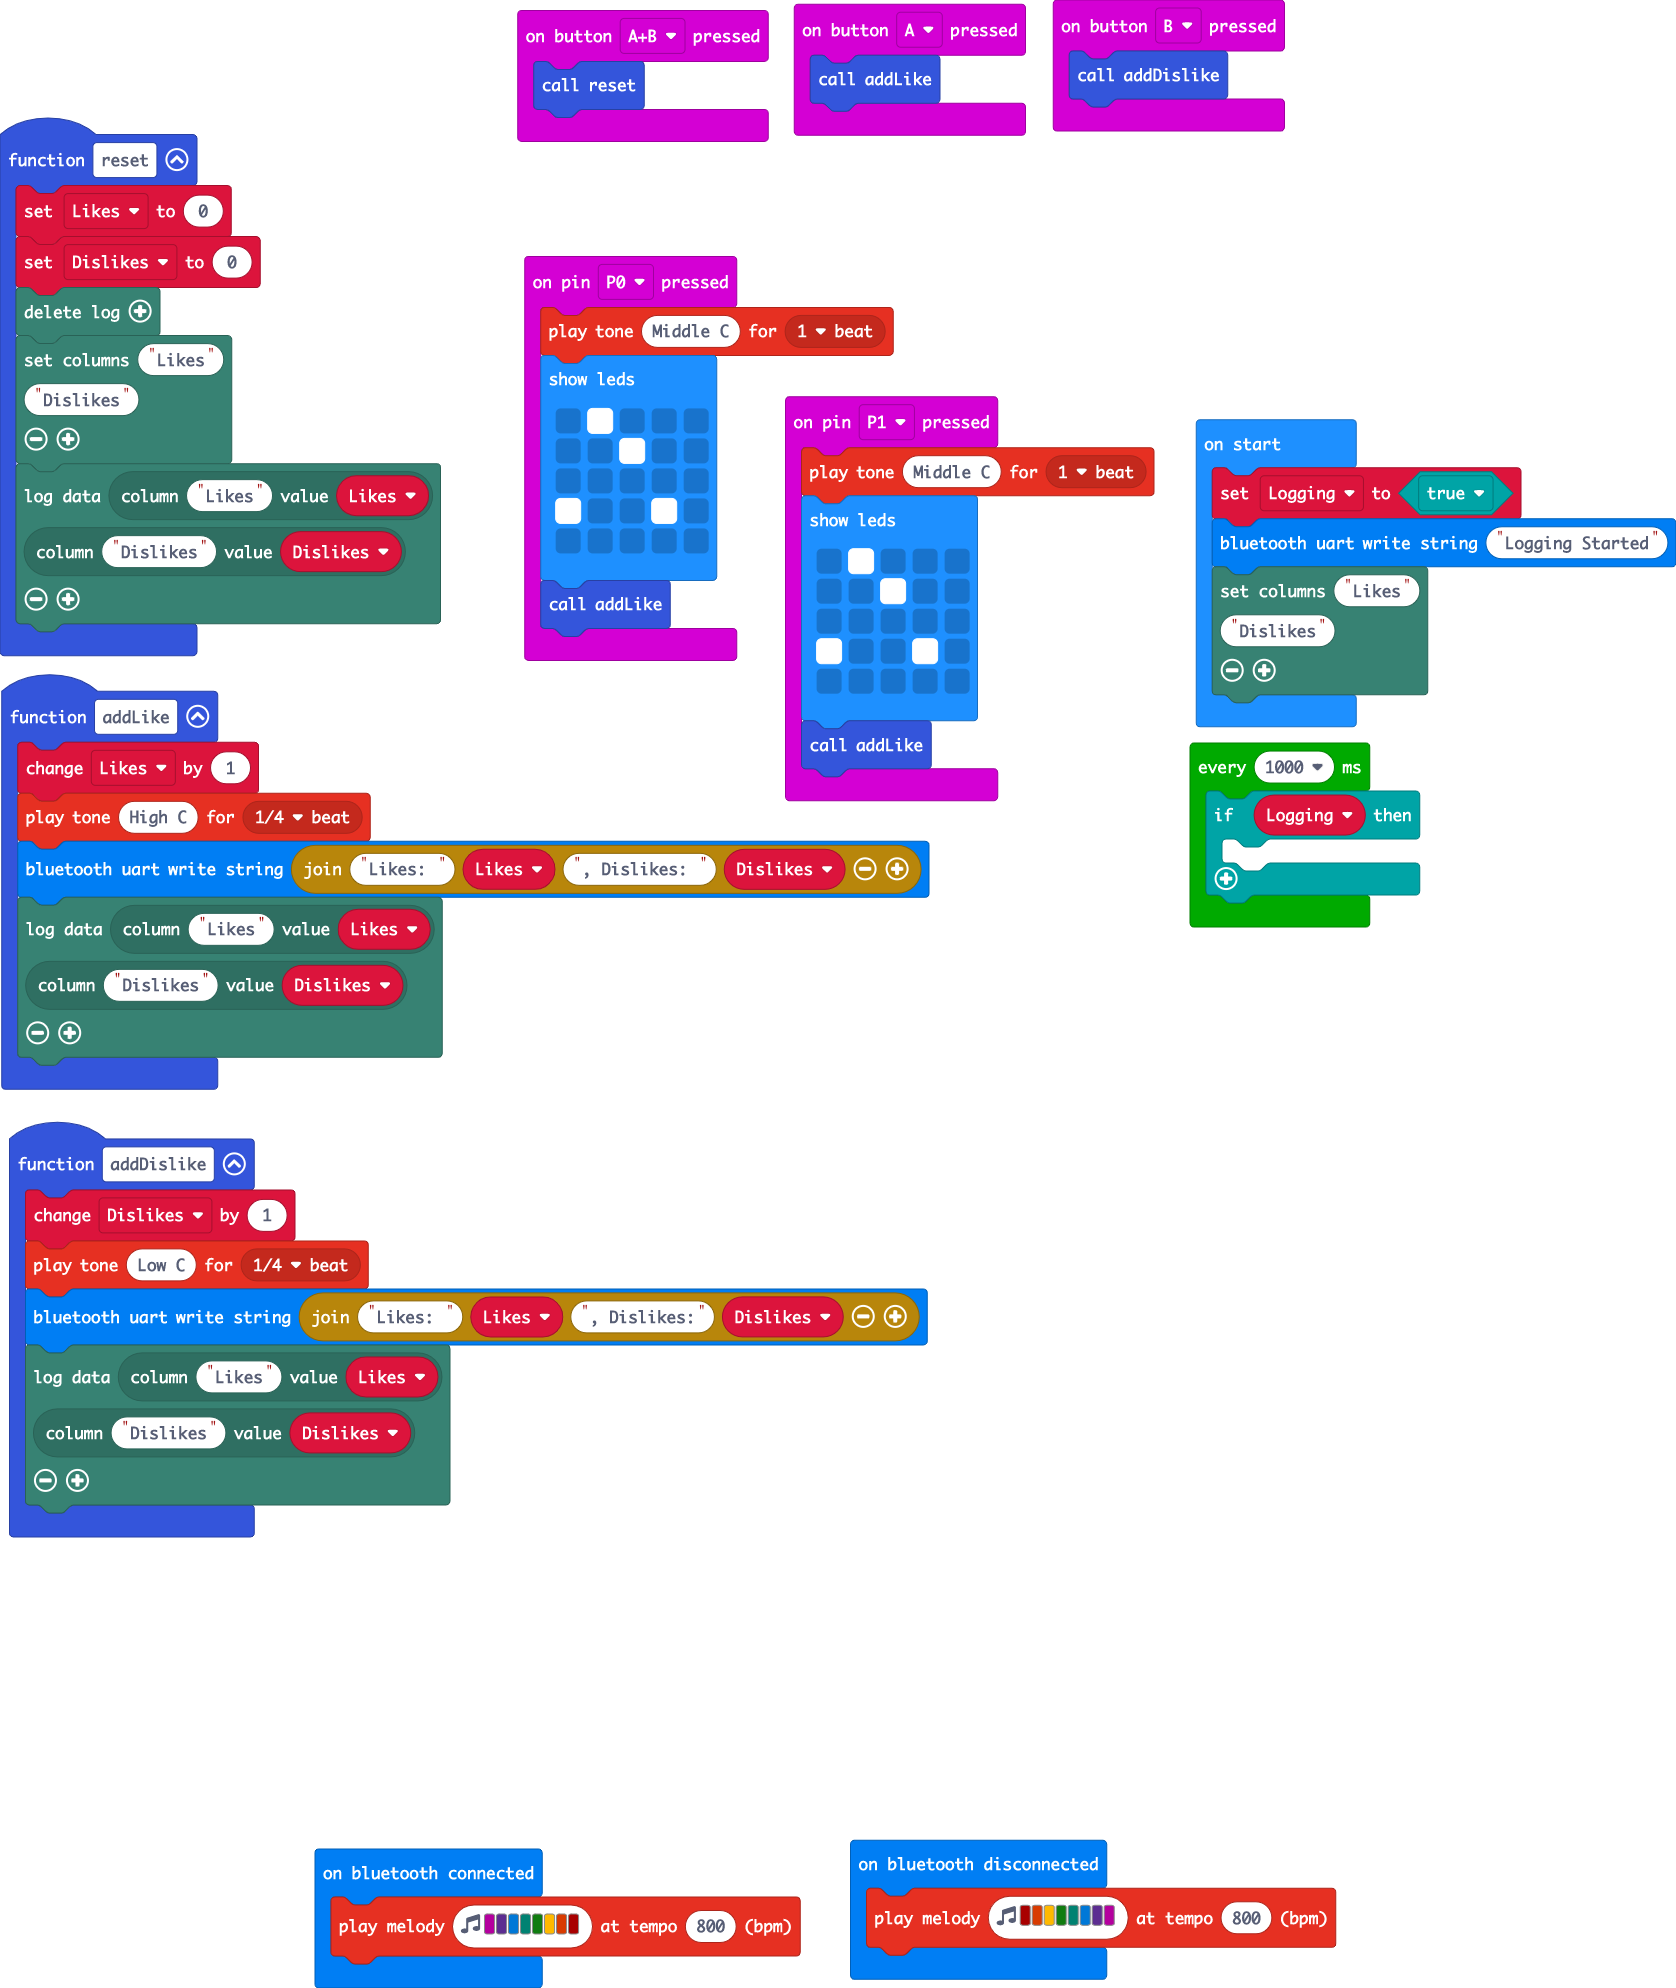
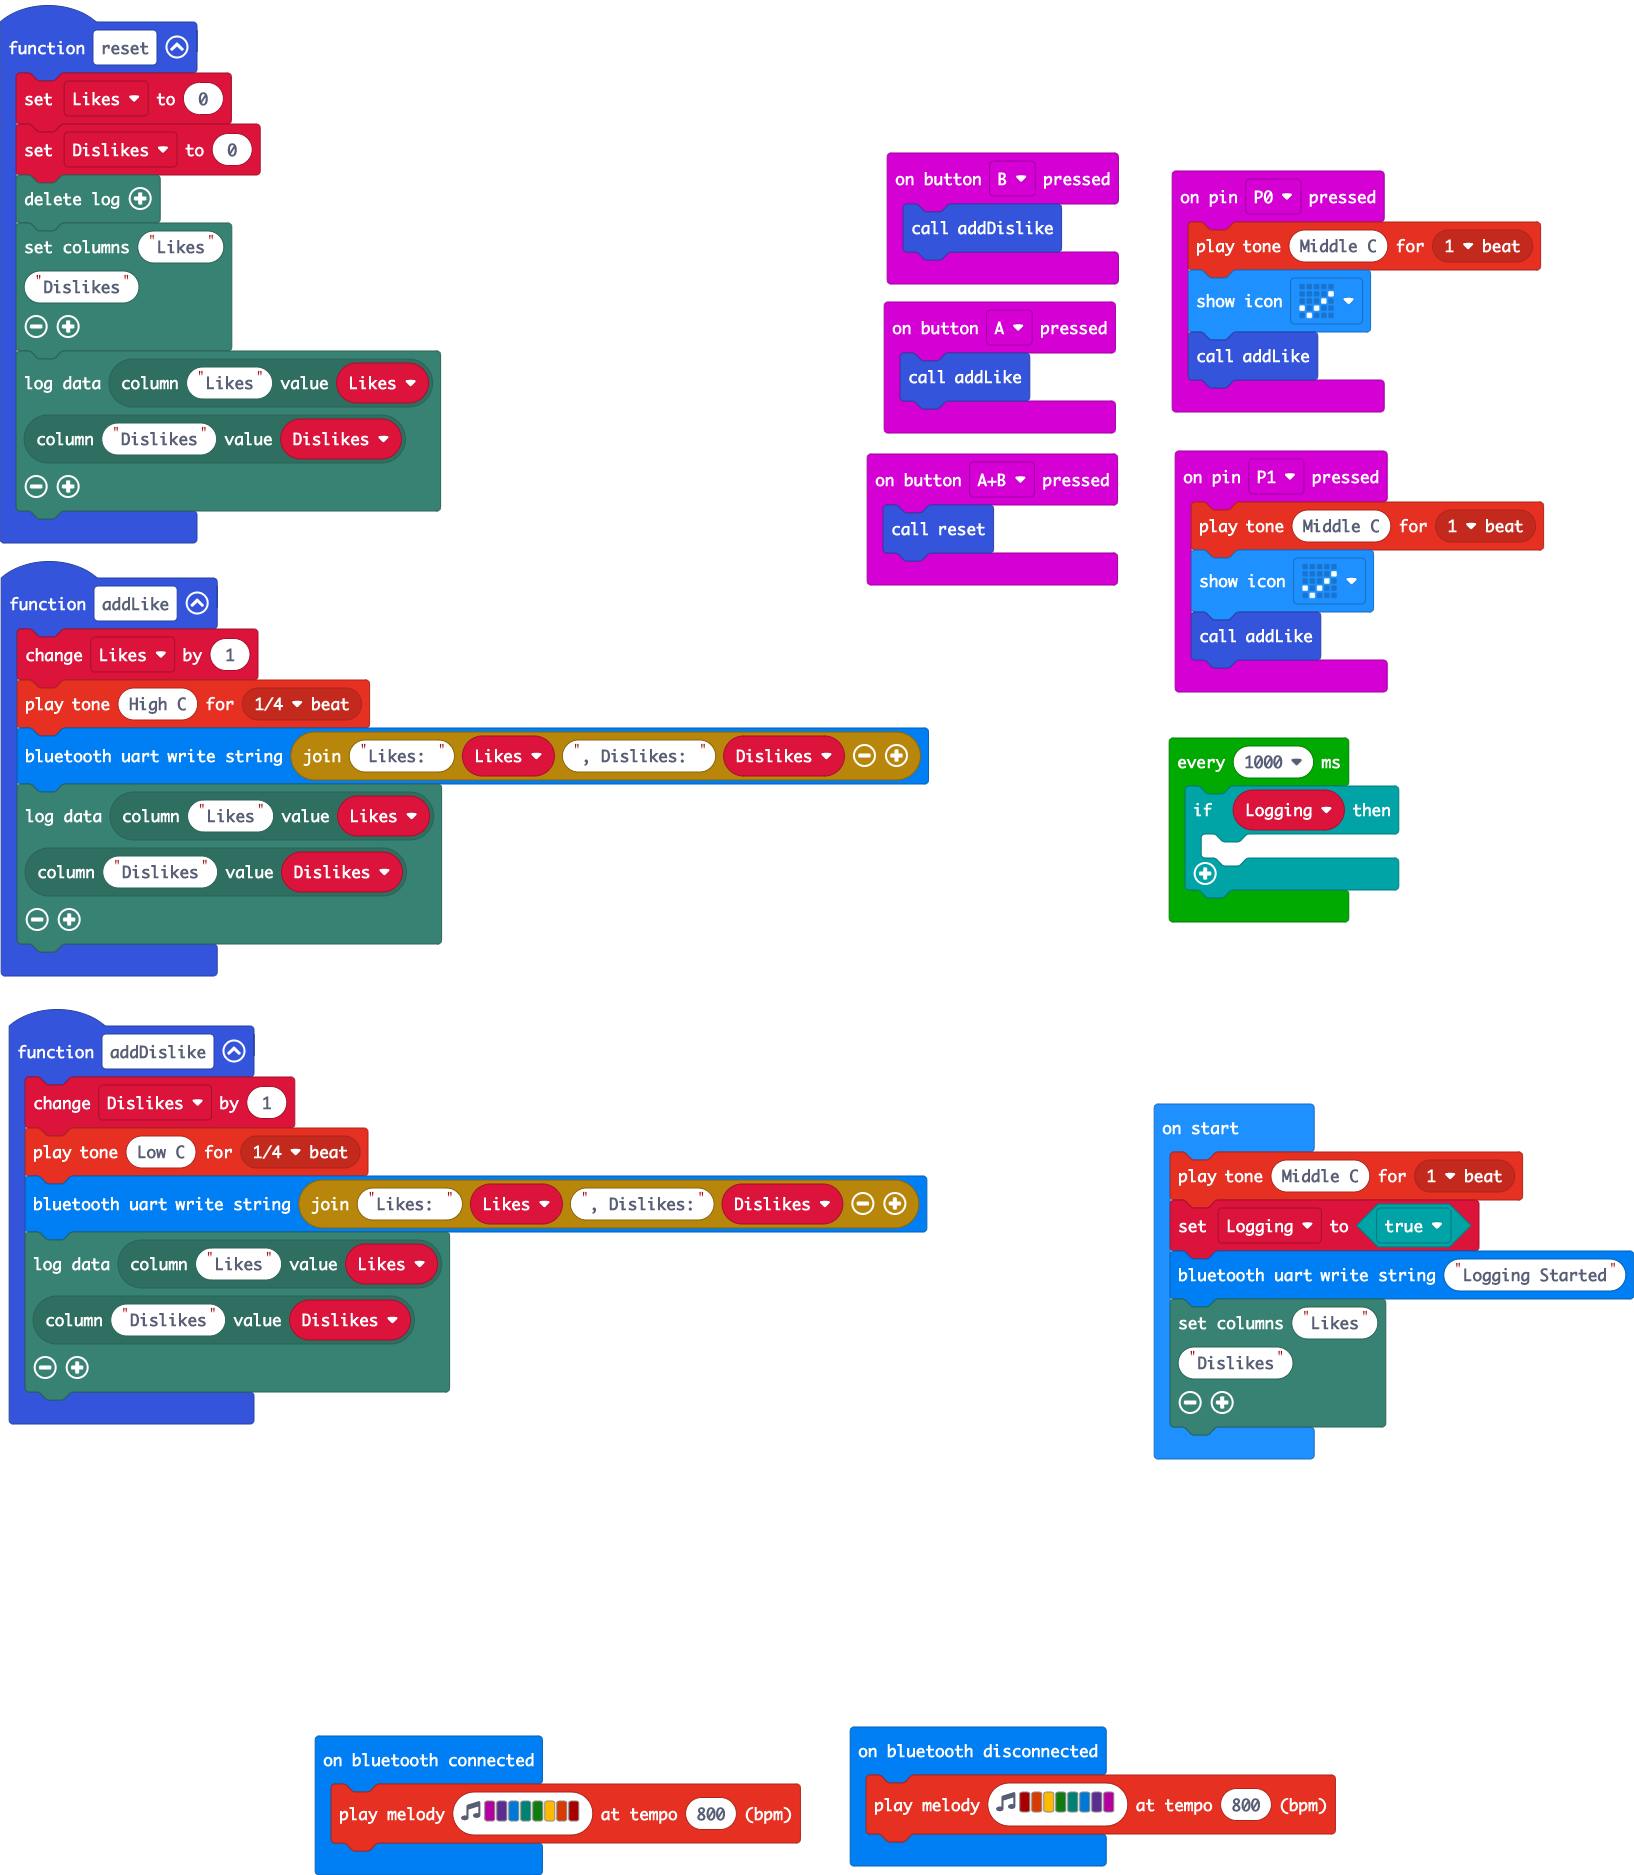
Update pxt.json, main.blocks, main.ts

diff --git a/main.ts b/main.ts
@@ -1,12 +1,6 @@
 input.onPinPressed(TouchPin.P0, function () {
     music.playTone(262, music.beat(BeatFraction.Whole))
-    basic.showLeds(`
-        . # . . .
-        . . # . .
-        . . . . .
-        # . . # .
-        . . . . .
-        `)
+    basic.showIcon(IconNames.Yes)
     addLike()
 })
 function addDislike () {
@@ -44,13 +38,7 @@ input.onButtonPressed(Button.B, function () {
 })
 input.onPinPressed(TouchPin.P1, function () {
     music.playTone(262, music.beat(BeatFraction.Whole))
-    basic.showLeds(`
-        . # . . .
-        . . # . .
-        . . . . .
-        # . . # .
-        . . . . .
-        `)
+    basic.showIcon(IconNames.Yes)
     addLike()
 })
 function reset () {
@@ -68,6 +56,7 @@ function reset () {
 }
 let Likes = 0
 let Dislikes = 0
+music.playTone(262, music.beat(BeatFraction.Whole))
 let Logging = true
 bluetooth.uartWriteString("Logging Started")
 datalogger.setColumnTitles(
